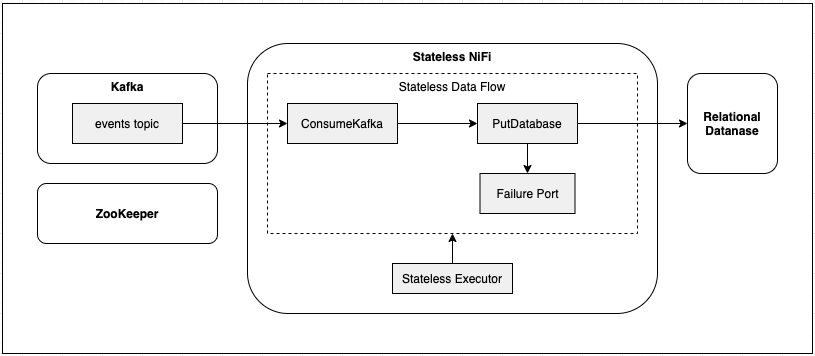
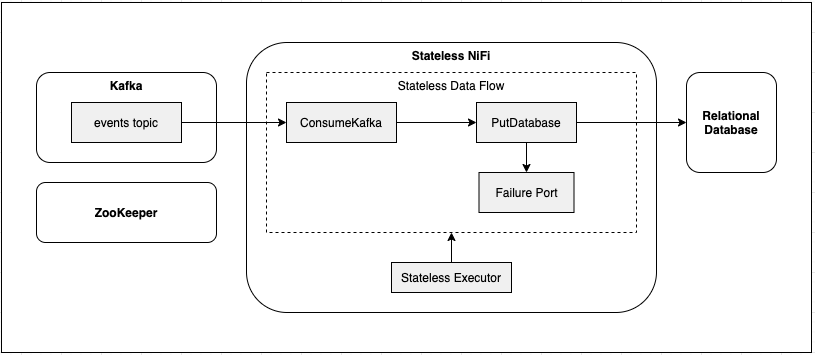
Fix typos in stateless nifi post

diff --git a/_posts/2021/2021-11-10-apache-nifi-stateless.md b/_posts/2021/2021-11-10-apache-nifi-stateless.md
@@ -16,13 +16,13 @@ This post will examine the differences between running a flow in traditional NiF
 ## Traditional NiFi
 
 As an example, let's assume there is a Kafka topic with CDC events and we want to consume the
-events and apply them to a another relational database. This can be achieved with a simple flow
+events and apply them to another relational database. This can be achieved with a simple flow
 containing `ConsumeKafka_2_6` connected to `PutDatabaseRecord`.
 
 <img src="{{ BASE_PATH }}/assets/images/nifi-stateless/01-traditional-flow.png" class="img-responsive">
 
 In traditional NiFi, each node has a set of internal repositories that are stored on local disk. The *Flow File Repository*
-contains the state of each flow file, including it's attributes and location in the flow, and the *Content Repository*
+contains the state of each flow file, including its attributes and location in the flow, and the *Content Repository*
 stores the content of each flow file.
 
 Each execution of a processor is given a reference to a session that acts like a transaction for operating on
